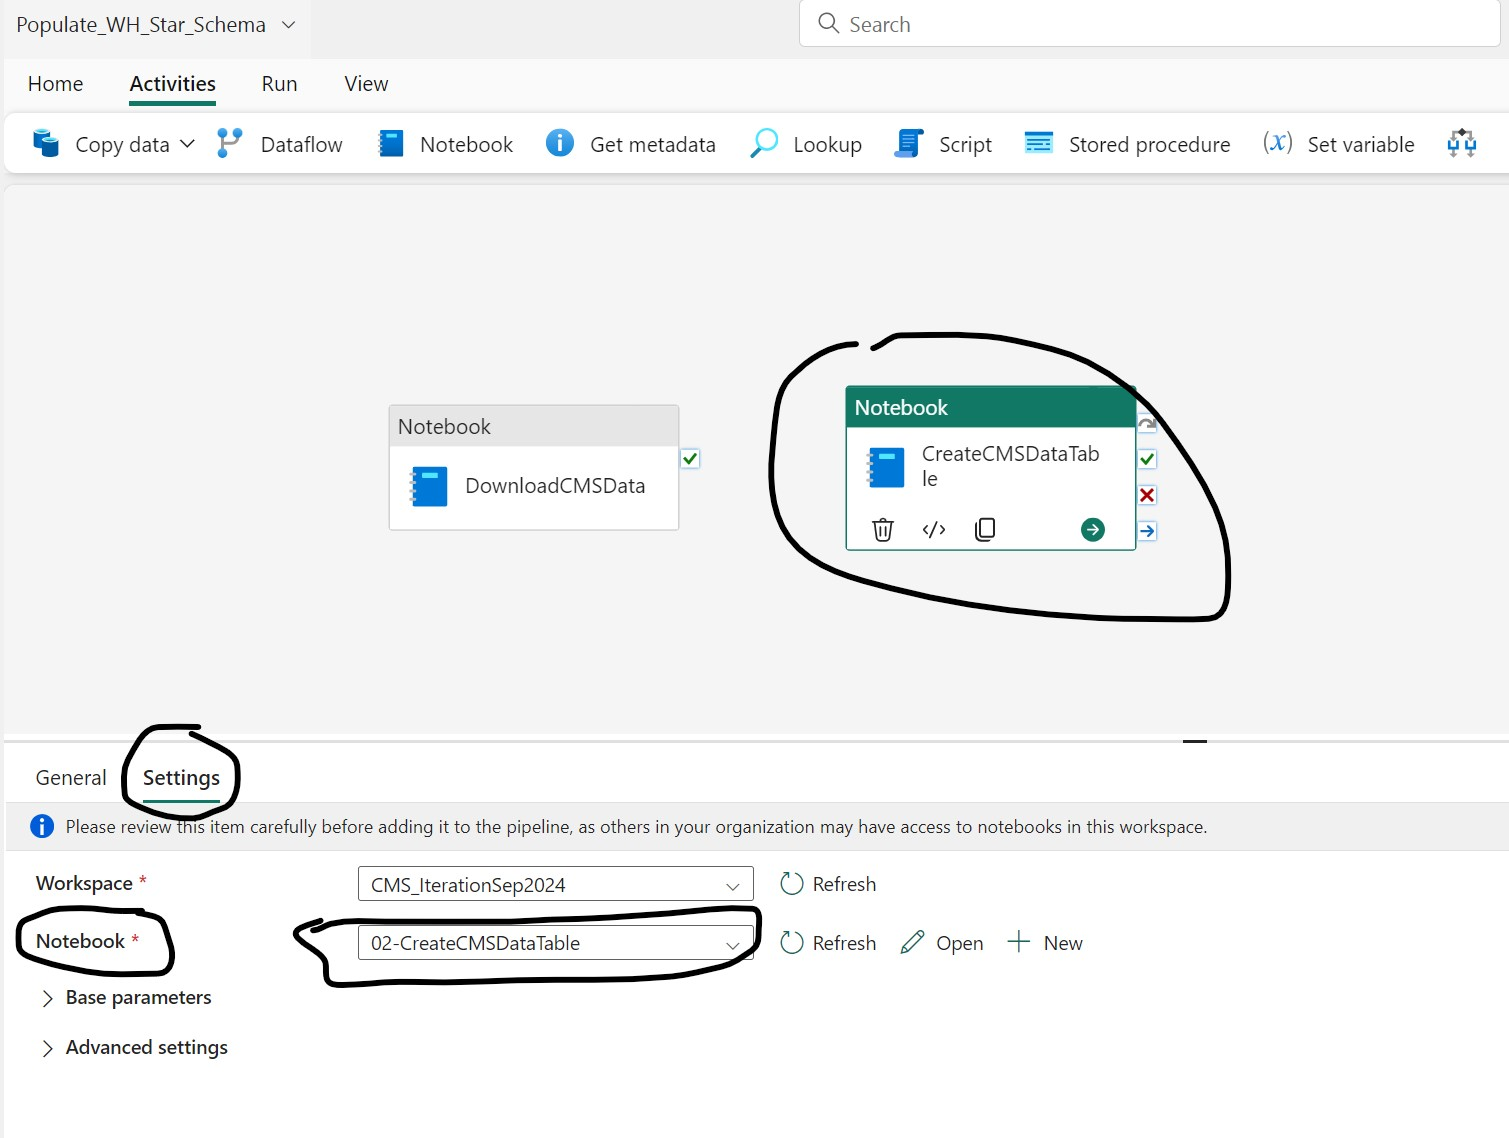
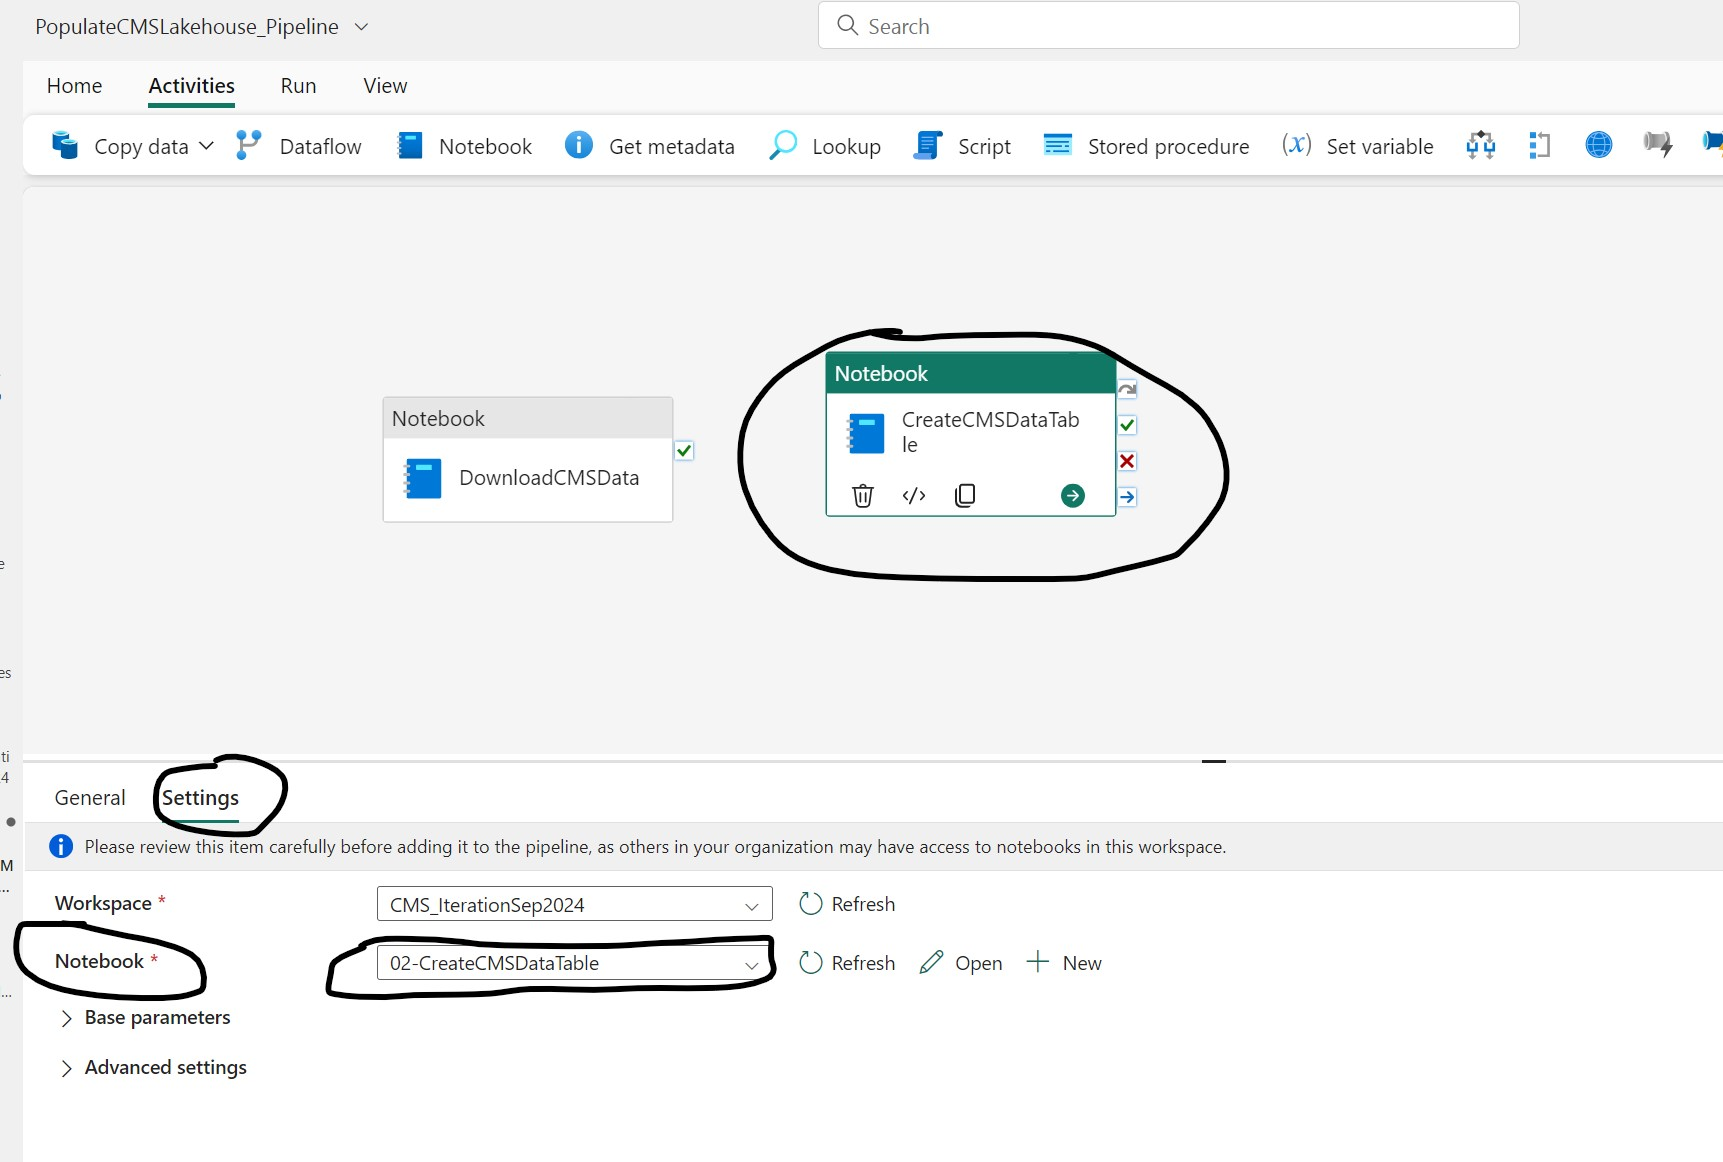
another set of changes for warehouse pipeline

diff --git a/analytics-bi-directlake-starschema/docs/2b-SetupPipeline-GoldLayerFabricWarehouse.md b/analytics-bi-directlake-starschema/docs/2b-SetupPipeline-GoldLayerFabricWarehouse.md
@@ -13,7 +13,7 @@ In this section you will creating two Fabric Data Factory Pipelines:
    
 ![Create New Pipeline](../Images/LakehousePipelineCreate.jpg)
 
-4. Specify appropriate name for the Pipeline example **WH_Star_Schema** and click **Create** button to open Data Pipeline canvas
+4. Specify appropriate name for the Pipeline example **PopulateCMSLakehouse_Pipeline** and click **Create** button to open Data Pipeline canvas
 5. Select the **Notebook** Activity on canvas to give appropriate name like **DownloadCMSData** as shown in the screenshot below, also review the Settings tab for activity (Workspace and Notebook settings are automatically set appropriately because Pipeline was created from Notebook)
    
 ![Download Dataset Activity](../Images/WarehousePipelineDownloadDataActivity.jpg)
@@ -35,10 +35,11 @@ In this section you will creating two Fabric Data Factory Pipelines:
    
 ![Connect Notebook Activities](../Images/WarehousePipelineConnectNotebookActivities.jpg)
 
-11. Run the Pipeline 
+11. Make sure to save changes to the Pipeline and then click **Run** button from Home menu to start execution of the pipeline, the pipeline job runs non-iteractively so you can close the browser and walk away to check back later.
 
-12. Once the Pipeline Execution is complete review the Lakehouse Tables and then move onto creation of Second Pipeline
+![Save Pipeline Changes](../Images/warehousepipeline1run.jpg)
 
+Pipeline Execution Status can be checked from the Monitoring Hub and once the pipeline is complete review the Lakehouse Tables and continue with implementation of second pipeline.
 
 ### Create Pipeline for Gold Layer in Warehouse
 1. Create a new Warehouse or use an existing one. Examples in this repo will use the name **CMS_Warehouse**
